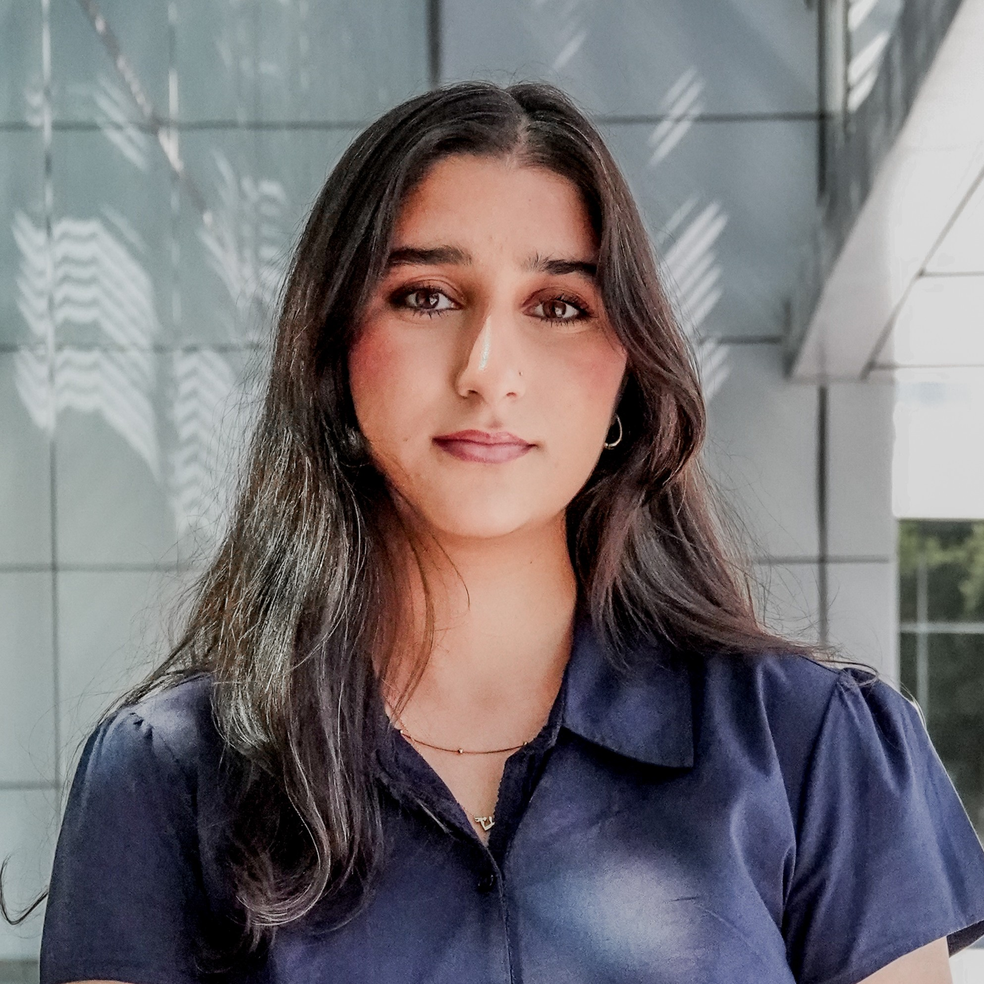
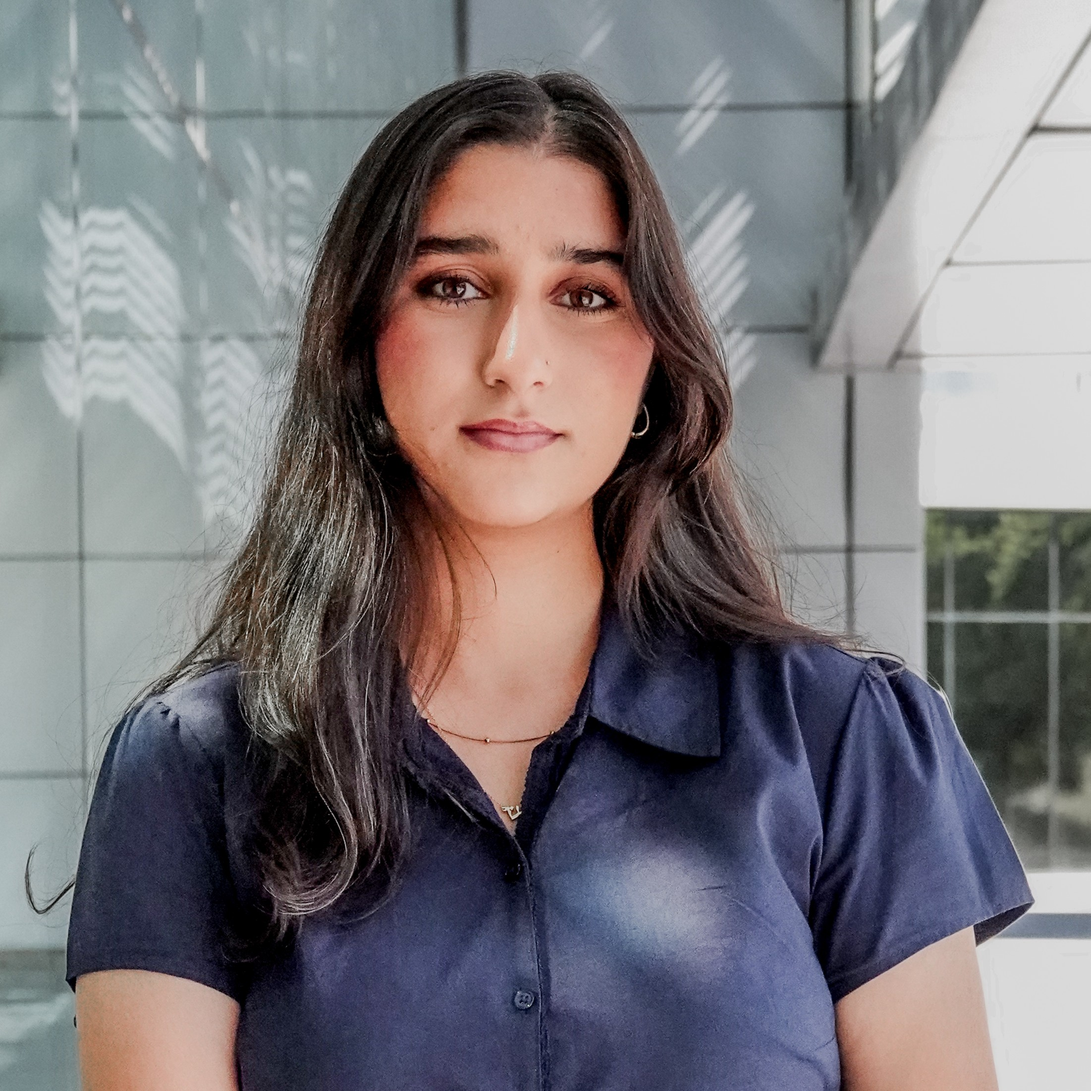
Update all headshots from October 2025 photoshoot

diff --git a/src/app/(public)/ambassadors/page.tsx b/src/app/(public)/ambassadors/page.tsx
@@ -34,7 +34,7 @@ export default function AmbassadorsPage() {
       <div className={styles.ambassadorCards}>
         <AmbassadorCard
           color="red"
-          photoURL="../../../../headshots/executive-board/julia-husainzada.jpeg"
+          photoURL="../../../../headshots/executive-board/julia-husainzada.jpg"
           name="Julia Husainzada"
           role="President"
         />
@@ -95,7 +95,7 @@ export default function AmbassadorsPage() {
         />
         <AmbassadorCard
           color="red"
-          photoURL="../../../../headshots/workshops/pranavi-kristipati.jpeg"
+          photoURL="../../../../headshots/workshops/pranavi-kristipati.jpg"
           name="Pranavi Kristipati"
           role="Workshops Ambassador"
         />
@@ -121,7 +121,7 @@ export default function AmbassadorsPage() {
         />
         <AmbassadorCard
           color="red"
-          photoURL="../../../../headshots/placeholder.png"
+          photoURL="../../../../headshots/workshops/aysha-mujeeb.jpg"
           name="Aysha Mujeeb"
           role="Workshops Ambassador"
         />
@@ -152,7 +152,7 @@ export default function AmbassadorsPage() {
       <div className={styles.ambassadorCards}>
         <AmbassadorCard
           color="red"
-          photoURL="../../../../headshots/case/geeta-renavikar.jpeg"
+          photoURL="../../../../headshots/case/geeta-renavikar.jpg"
           name="Geeta Renavikar"
           role="Lead Ambassador"
         />
@@ -181,7 +181,7 @@ export default function AmbassadorsPage() {
 
         <AmbassadorCard
           color="blue"
-          photoURL="../../../../headshots/case/pranavi-kristipati.jpeg"
+          photoURL="../../../../headshots/case/pranavi-kristipati.jpg"
           name="Pranavi Kristipati"
           role="Case Ambassador"
         />
@@ -198,7 +198,7 @@ export default function AmbassadorsPage() {
       <div className={styles.ambassadorCards}>
         <AmbassadorCard
           color="red"
-          photoURL="../../../../headshots/consulting/samriddhi-matharu.jpeg"
+          photoURL="../../../../headshots/consulting/samriddhi-matharu.jpg"
           name="Samriddhi Matharu"
           role="Lead Ambassador"
         />
@@ -210,7 +210,7 @@ export default function AmbassadorsPage() {
         />
         <AmbassadorCard
           color="blue"
-          photoURL="../../../../headshots/consulting/lexine-asuncion.jpeg"
+          photoURL="../../../../headshots/consulting/lexine-asuncion.jpg"
           name="Lexine Asuncion"
           role="Consulting Ambassador"
         />
@@ -266,7 +266,7 @@ export default function AmbassadorsPage() {
         />
         <AmbassadorCard
           color="blue"
-          photoURL="../../../../headshots/industry/yuwen-zhang.png"
+          photoURL="../../../../headshots/industry/yuwen-zhang.jpg"
           name="Yuwen Zhang"
           role="Industry Ambassador"
         />
@@ -308,7 +308,7 @@ export default function AmbassadorsPage() {
         />
         <AmbassadorCard
           color="blue"
-          photoURL="../../../../headshots/web-dev/preethi-mohan.jpeg"
+          photoURL="../../../../headshots/web-dev/preethi-mohan.jpg"
           name="Preethi Mohan"
           role="Web Dev Ambassador"
         />
@@ -322,7 +322,7 @@ export default function AmbassadorsPage() {
         />
         <AmbassadorCard
           color="blue"
-          photoURL="../../../../headshots/web-dev/matthew-bernard.png"
+          photoURL="../../../../headshots/web-dev/matthew-bernard.jpg"
           name="Matthew Bernard"
           role="Web Dev Ambassador"
         />
@@ -445,7 +445,7 @@ export default function AmbassadorsPage() {
       <div className={styles.ambassadorCards}>
         <AmbassadorCard
           color="blue"
-          photoURL="../../../../headshots/marketing/zara-raza.jpeg"
+          photoURL="../../../../headshots/marketing/zara-raza.jpg"
           name="Zara Raza"
           role="Digital Marketing Ambassador"
         />
@@ -477,7 +477,7 @@ export default function AmbassadorsPage() {
         />
         <AmbassadorCard
           color="blue"
-          photoURL="../../../../headshots/marketing/madelyn-whitney.png"
+          photoURL="../../../../headshots/marketing/madelyn-whitney.jpg"
           name="Madelyn Whitney"
           role="Graphic Design Ambassador"
         />
@@ -485,8 +485,8 @@ export default function AmbassadorsPage() {
       <div className={styles.ambassadorCards}>
         <AmbassadorCard
           color="blue"
-          photoURL="../../../../headshots/marketing/vy-ho.png"
-          name="Vy Ho"
+          photoURL="../../../../headshots/marketing/vy-ho.jpg"
+          name='Vy "Evie" Ho'
           role="Graphic Design Ambassador"
         />
       </div>
@@ -507,7 +507,7 @@ export default function AmbassadorsPage() {
         />
         <AmbassadorCard
           color="red"
-          photoURL="../../../../headshots/journalism/harika-chandrasekhar.png"
+          photoURL="../../../../headshots/journalism/harika-chandrasekhar.jpg"
           name="Harika Chandrasekhar"
           role="Journalism Ambassador"
         />
@@ -565,7 +565,7 @@ export default function AmbassadorsPage() {
         />
         <AmbassadorCard
           color="blue"
-          photoURL="../../../../headshots/finance/dhwanil-ranpura.jpeg"
+          photoURL="../../../../headshots/finance/dhwanil-ranpura.jpg"
           name="Dhwanil Ranpura"
           role="Finance Ambassador"
         />
